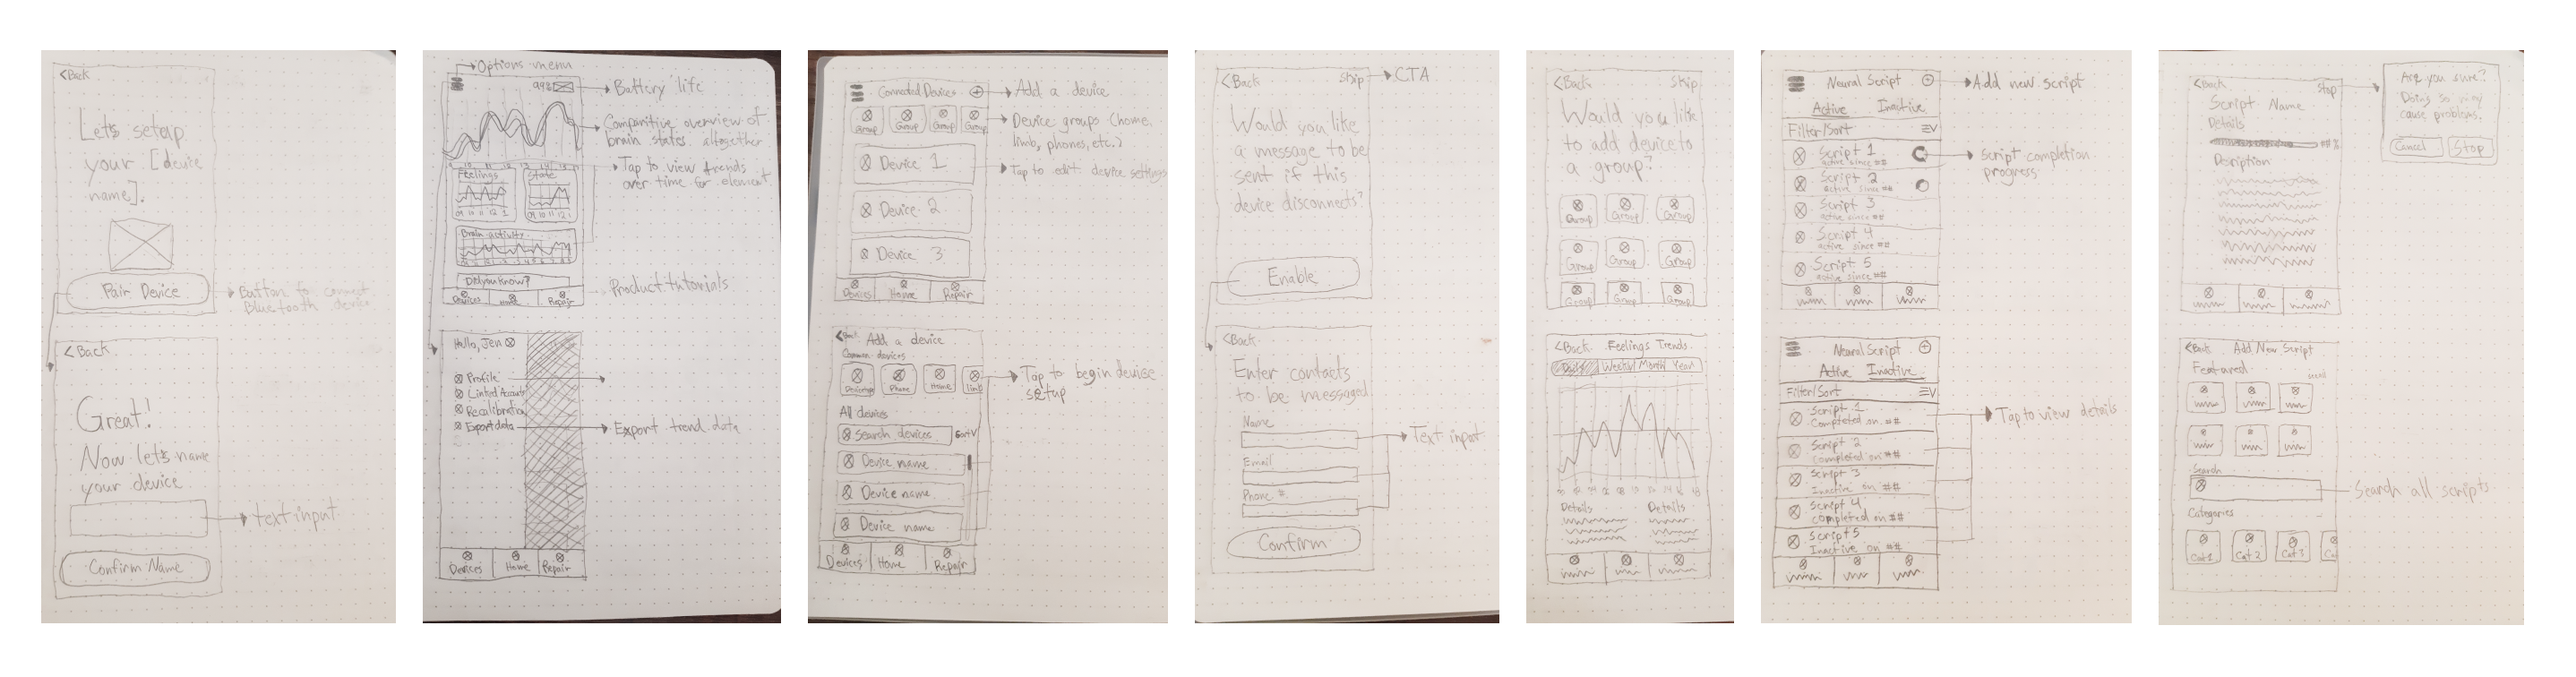
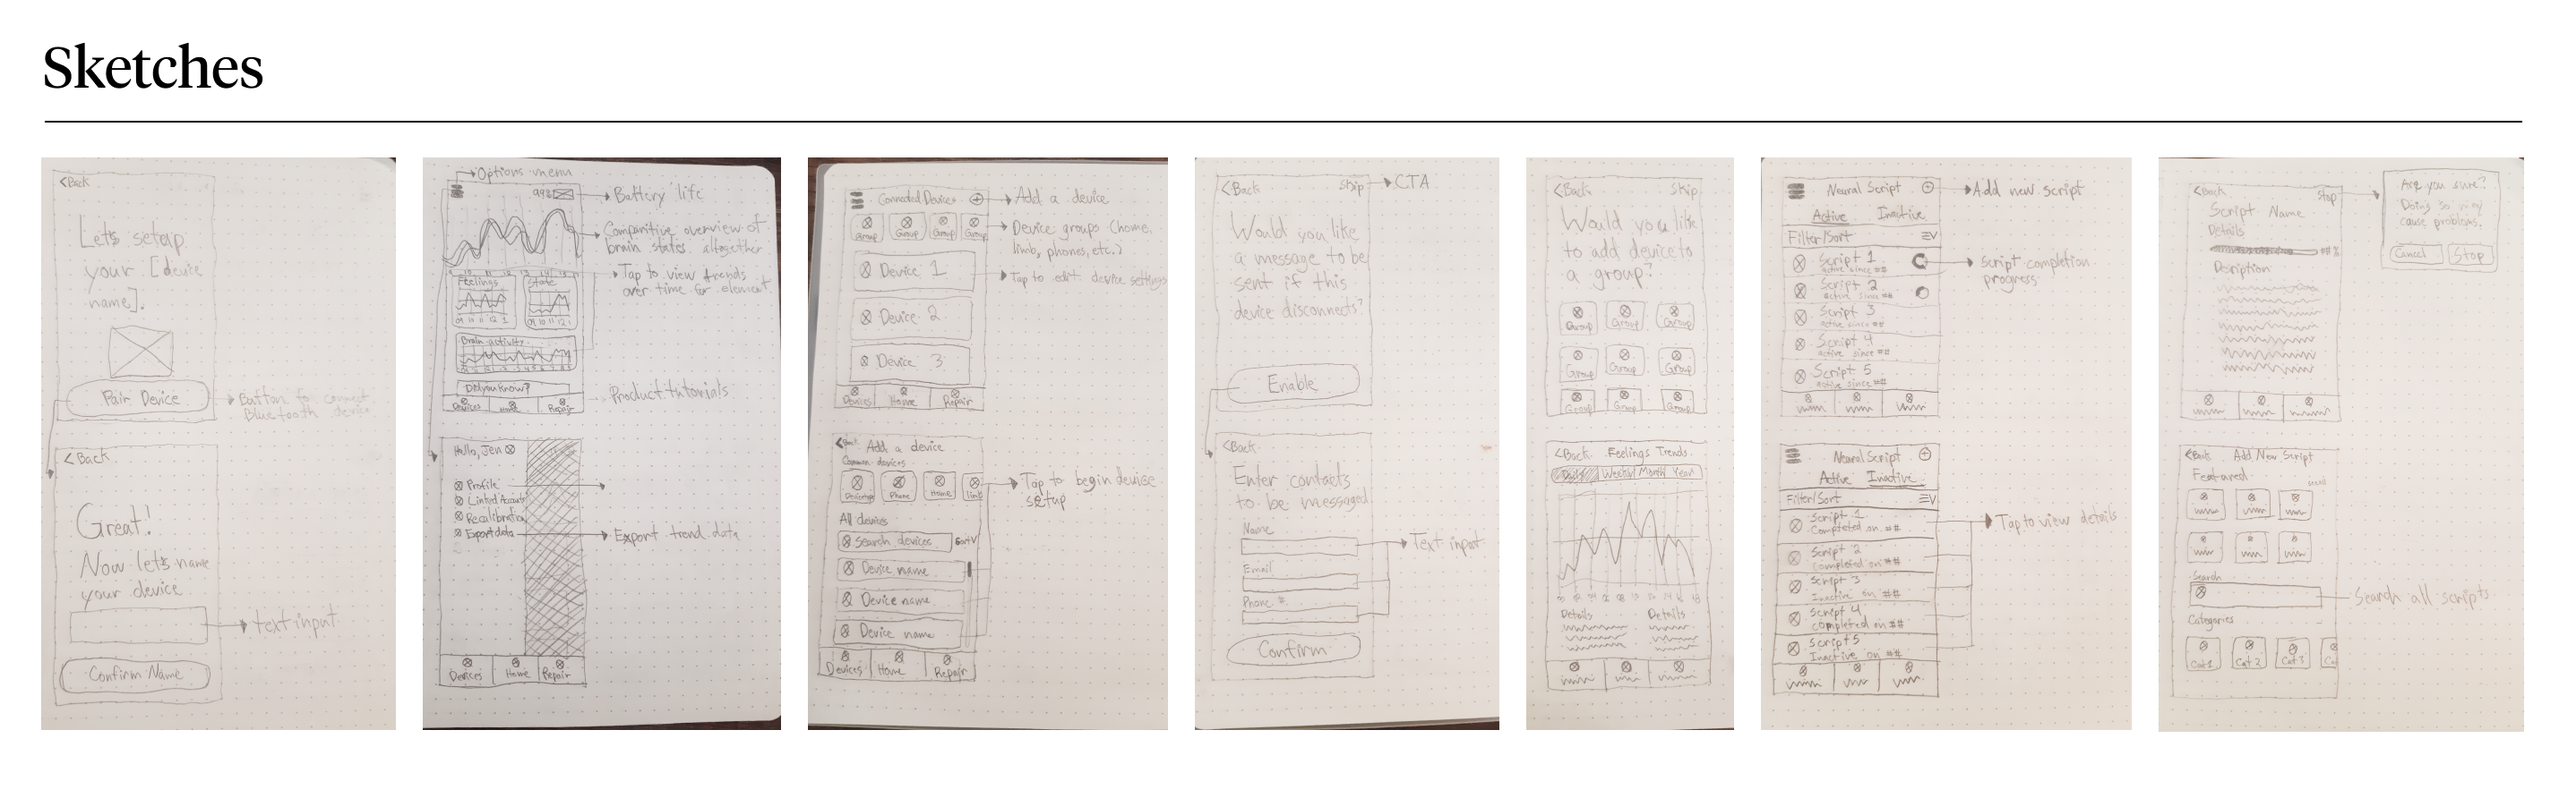
.

diff --git a/ysdn4003.html b/ysdn4003.html
@@ -265,13 +265,8 @@
       </div>
     </div>
 
-    <div class="row business-objectives">
-      <div class="col-xs-12 col-md-2 col-lg-offset-1">
-        <h4 class="section-title beo-green">
-          Initial Sketches
-        </h4>
-      </div>
-      <div class="col-xs-12 col-md-9 col-lg-8">
+    <div class="row business-objectives center-xs">
+      <div class="col-xs-12 col-md-11 col-lg-11">
         <img class="img--landscape project-img" src="images/neuralink-sketches.png" alt="Diagram of the app's man components">
       </div>
       </div>
